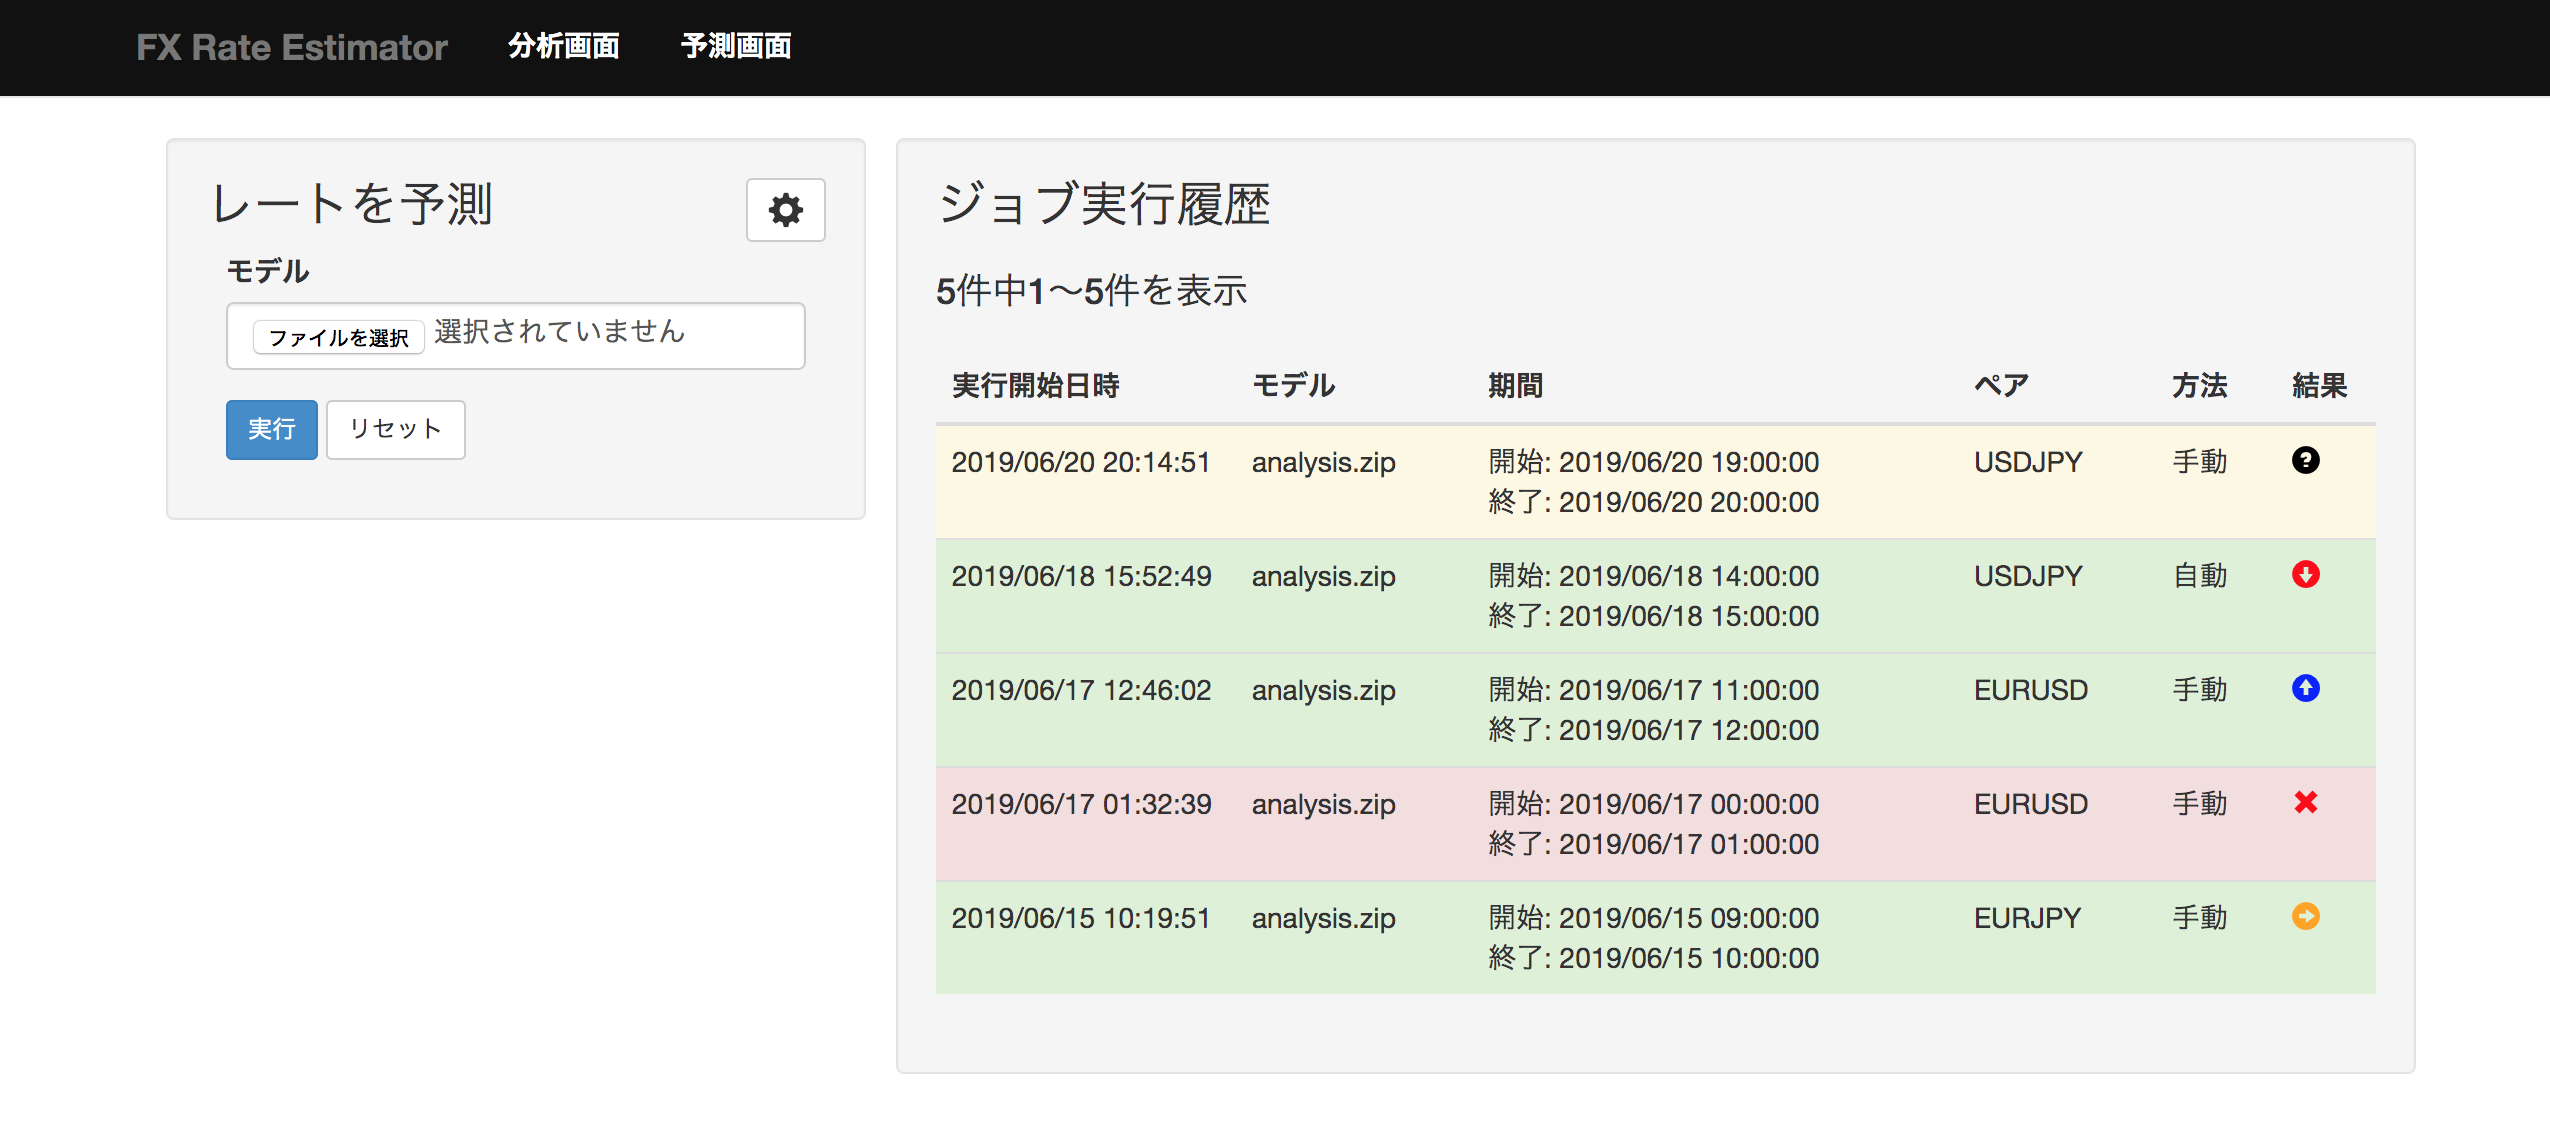
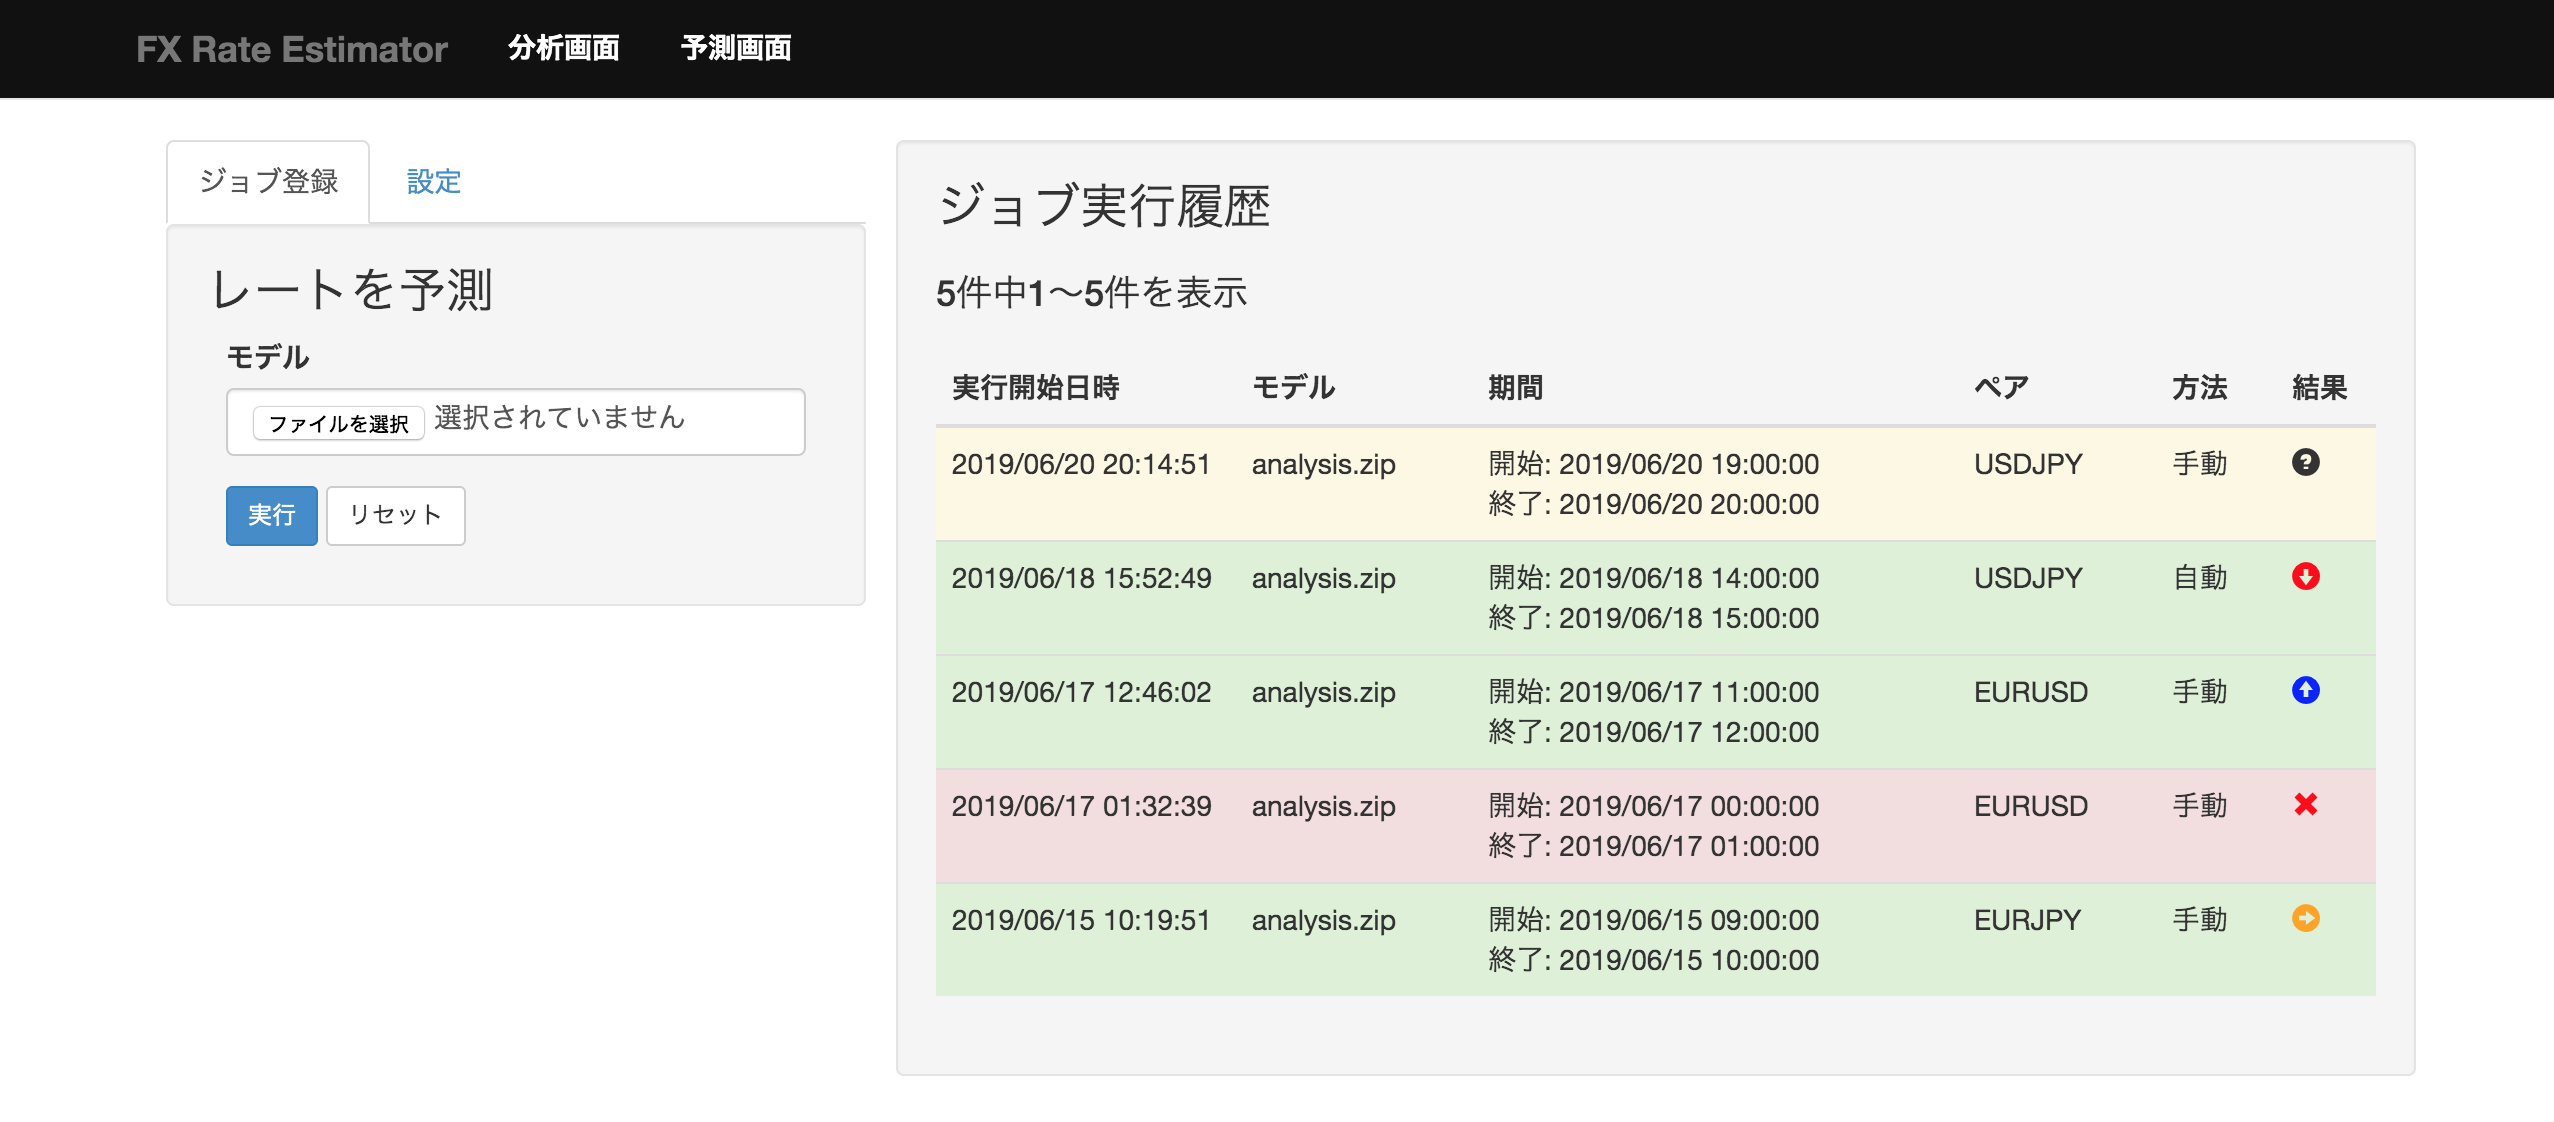
Regulus multi pair auto (#220)
* update prediction view images

* update external spec

* modify scale

* fix external spec

* update CHANGELOG.md

diff --git a/fx-rate_estimator/regulus/external.rst b/fx-rate_estimator/regulus/external.rst
@@ -152,30 +152,64 @@
 .. image:: images/prediction.png
    :alt: 予測画面
 
-- 画面左部にモデル入力フォームが表示される
+- 画面の上部には分析画面と予測画面へのリンクが表示される
+- 画面の左部には予測ジョブの登録や定期予測の設定を行うためのフォームが表示される
 
-  - モデルには分析を実行して受け取った圧縮ファイルを指定する
-  - 実行ボタンを押下すると予測が開始される
-  - 設定ボタンを押下すると定期予測で利用するモデルを設定するためのダイアログが表示される
-
-    .. image:: images/prediction_setting.png
-       :alt: 設定画面
-       :scale: 35
-
-    - 保存ボタンを押下すると指定したモデルが設定される
-
-      - モデルが設定されると毎日0時0分に予測が実行される
-
-    - 何も入力せずに保存ボタンを押下すると定期予測が停止される
+  - タブでフォームを切り替えることができる
+  - 初期状態ではジョブ登録用フォームが表示される
 
 - 画面右部に実行したジョブ情報の一覧が表示される
 
-  - 25ジョブごとにページングされている
-  - 実行開始日時の降順でソートされている
-  - 実行中のジョブは黄色，完了したジョブの行は緑色，エラーになったジョブは赤色で表示される
-  - 完了したジョブの場合は予測結果がアイコンで表示される
+ジョブ登録フォーム仕様
+""""""""""""""""""""""
 
-    - 実行中の場合は「?」アイコンが表示される
+.. image:: images/prediction_form_job.png
+   :alt: ジョブ登録フォーム
+   :scale: 50
+
+- モデル選択フォームに予測に利用するファイルを選択する
+- 実行ボタンを押下すると予測を行うジョブが登録される
+
+定期予測設定フォーム
+""""""""""""""""""""
+
+- 定期予測を有効にする場合と無効にする場合でフォームが異なる
+- 初期状態では有効にする場合のフォームが表示されている
+- フォームに表示されている状態ボタンを選択することでフォームを切り替えることができる
+
+有効にする場合
+''''''''''''''
+
+.. image:: images/prediction_form_setting_active.png
+   :alt: 有効にする場合
+   :scale: 50
+
+- 定期予測に利用するファイルを選択するためのフォームが表示される
+- 設定ボタンを押下すると有効にする設定を行い，ジョブ登録フォームを表示する
+
+無効にする場合
+''''''''''''''
+
+.. image:: images/prediction_form_setting_inactive.png
+   :alt: 無効にする場合
+   :scale: 50
+
+- 無効にするペアを選択するためのセレクトボックスが表示される
+- 設定ボタンを押下すると無効にする設定を行い，ジョブ登録フォームを表示する
+
+予測ジョブ一覧画面仕様
+""""""""""""""""""""""
+
+.. image:: images/prediction_table.png
+   :alt: 予測ジョブ一覧
+   :scale: 50
+
+- 25ジョブごとにページングされている
+- 実行開始日時の降順でソートされている
+- 実行中のジョブは黄色，完了したジョブの行は緑色，エラーになったジョブは赤色で表示される
+- 完了したジョブの場合は予測結果がアイコンで表示される
+
+  - 実行中の場合は「?」アイコンが表示される
 
 .. _reg-ext-api:
 

diff --git a/CHANGELOG.md b/CHANGELOG.md
@@ -1,3 +1,6 @@
+# 2019/10/19
+- [Regulus] update version to 4.8.0
+
 # 2019/10/12
 - [Regulus] update version to 4.7.0
 
